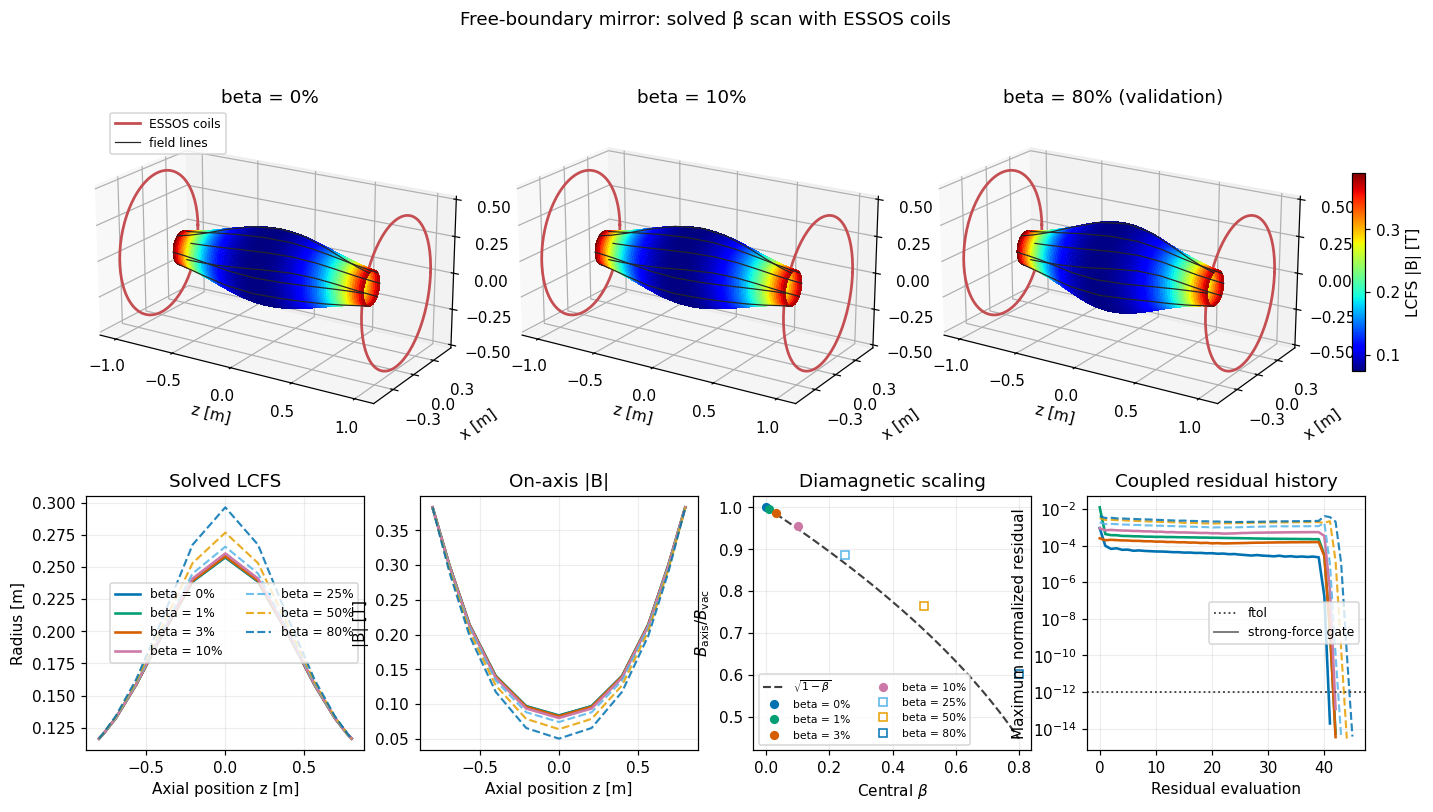
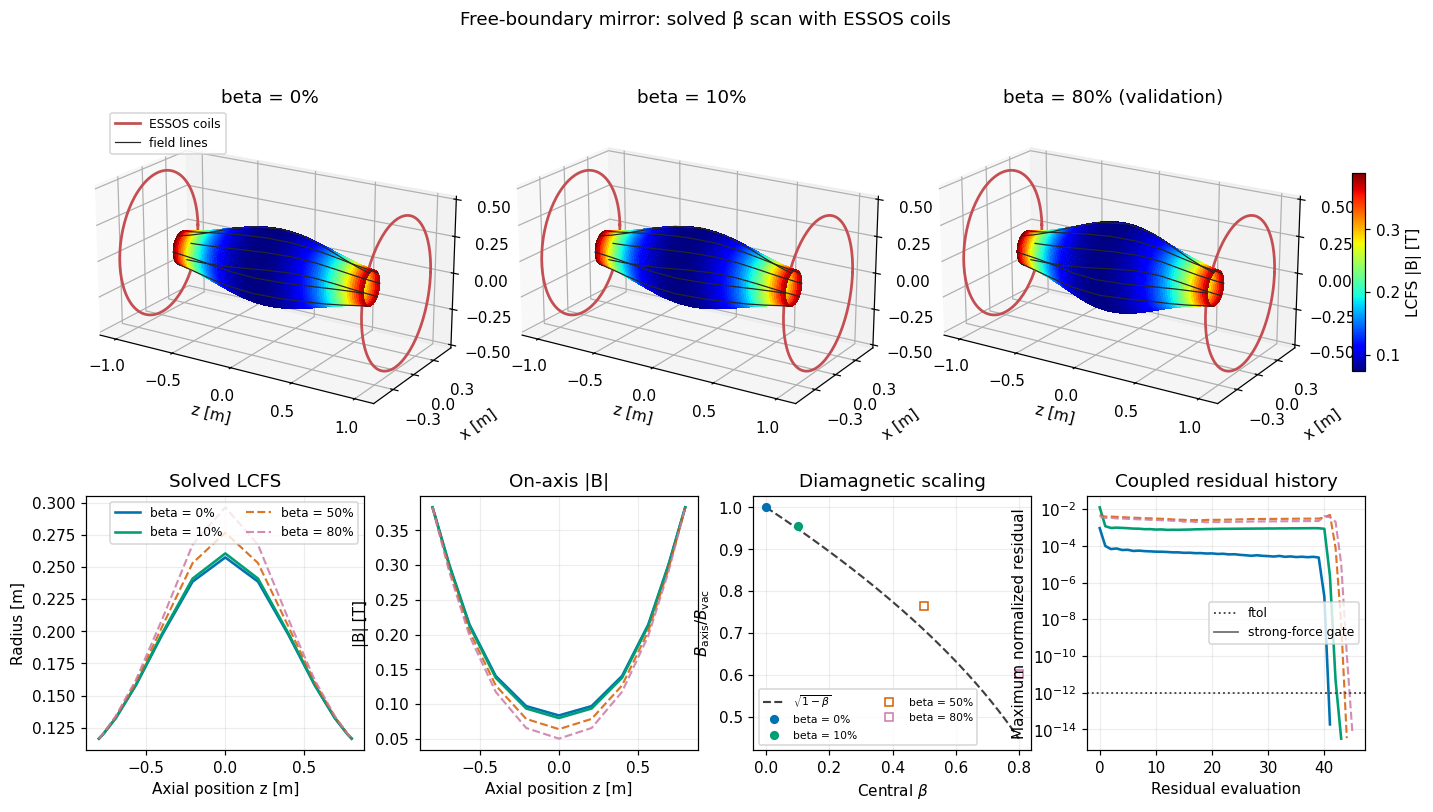
Keep the mirror beta-scan example under five minutes
Each free-boundary beta point costs about a minute on a laptop CPU (42-46
coupled iterations), so the seven-point scan took about eight minutes. The
example now solves 0, 10, 50 and 80 percent: vacuum, the supported endpoint,
and two extended-validation points, including the 80 percent point the
capability pages cite. Each point is the same equilibrium as before, and the
80 percent observables are unchanged (center radius +15.13 percent, axis
field -37.92 percent).

The docs composite is regenerated from the example; a second run reproduced
its bytes. The mirror how-to lists the new points.

diff --git a/examples/mirror/mirror_free_boundary_beta_scan.py b/examples/mirror/mirror_free_boundary_beta_scan.py
@@ -3,13 +3,14 @@
 
 Two circular ESSOS coils make an axisymmetric vacuum mirror. The script
 continues the coupled plasma-boundary-vacuum equilibrium through the beta
-points in ``BETAS`` (0, 1, 3, 10, 25, 50 and 80 %), each solved to the
-residual tolerance ``FTOL``; no prescribed finite-beta boundary is plotted.
-The points through 10 % are the supported lane and must pass the strong-force
-gate; 25, 50 and 80 % are extended validation outside the supported model
-range. It writes one MOUT and restart file per point, a JSON summary, the
-mirror ratios, per-state figures for three points, and the beta-scan
-composite.
+points in ``BETAS`` (0, 10, 50 and 80 %), each solved to the residual
+tolerance ``FTOL``; no prescribed finite-beta boundary is plotted. The points
+through 10 % are the supported lane and must pass the strong-force gate; 50
+and 80 % are extended validation outside the supported model range. Each
+point costs about a minute on a laptop CPU, so add intermediate points (1, 3,
+25 %, ...) only when the extra minutes are wanted. It writes one MOUT and
+restart file per point, a JSON summary, the mirror ratios, per-state figures
+for three points, and the beta-scan composite.
 
 The composite the docs embed is written straight into
 ``docs/_static/figures`` as lossless WebP, so re-running this script
@@ -52,7 +53,7 @@ except ModuleNotFoundError:
     raise SystemExit("This example needs ESSOS: pip install 'vmex[coils]'") from None
 
 # Requested central beta of each point; the scan continues from vacuum:
-BETAS = np.asarray([0.0, 0.01, 0.03, 0.10, 0.25, 0.50, 0.80])
+BETAS = np.asarray([0.0, 0.10, 0.50, 0.80])
 
 # Largest beta of the supported lane, and its strong-force gate:
 SUPPORTED_BETA_MAX = 0.10
@@ -88,7 +89,7 @@ CENTER_RADIUS = 0.25
 OUTPUT_DIR = Path("results/mirror_free_boundary_beta_scan")
 
 # Write one hot-start .npz per beta point; to resume, set RESTART_FROM to one
-# of them (e.g. OUTPUT_DIR / "beta_003p0pct.npz") and trim BETAS to the rest:
+# of them (e.g. OUTPUT_DIR / "beta_010p0pct.npz") and trim BETAS to the rest:
 SAVE_RESTARTS = True
 RESTART_FROM = None
 

diff --git a/docs/howto/mirror-machines.md b/docs/howto/mirror-machines.md
@@ -74,14 +74,16 @@ cross-section, and residual figures.
 python examples/mirror/mirror_free_boundary_beta_scan.py
 ```
 
-The script solves the beta points 0, 1, 3, 10, 25, 50, and 80% (`BETAS` at
-its top) and writes one MOUT per state, a compact JSON summary, restart files, and per-state figures under
+The script solves the beta points 0, 10, 50, and 80% (`BETAS` at its top;
+each point takes about a minute on a laptop CPU, so intermediate points are
+left out by default) and writes one MOUT per state, a compact JSON summary,
+restart files, and per-state figures under
 `results/mirror_free_boundary_beta_scan/`, and the beta-scan composite under
 `docs/_static/figures/`. The example's two ESSOS loops are
 sized to the plasma: radius 0.5 m at z = +/-1.0 m carrying 3.72e5 A each,
 which keeps the central vacuum field of the recorded benchmark geometry
-(about 0.0836 T) with a deeper mirror well. Only the first four points (0--10%)
-are in the supported lane; 25, 50, and 80% are extended validation
+(about 0.0836 T) with a deeper mirror well. Only the 0 and 10% points are in
+the supported lane; 50 and 80% are extended validation
 ({doc}`/reference/capabilities`).
 
 External fields enter as an ESSOS/SIMSOPT Biot-Savart object, any
